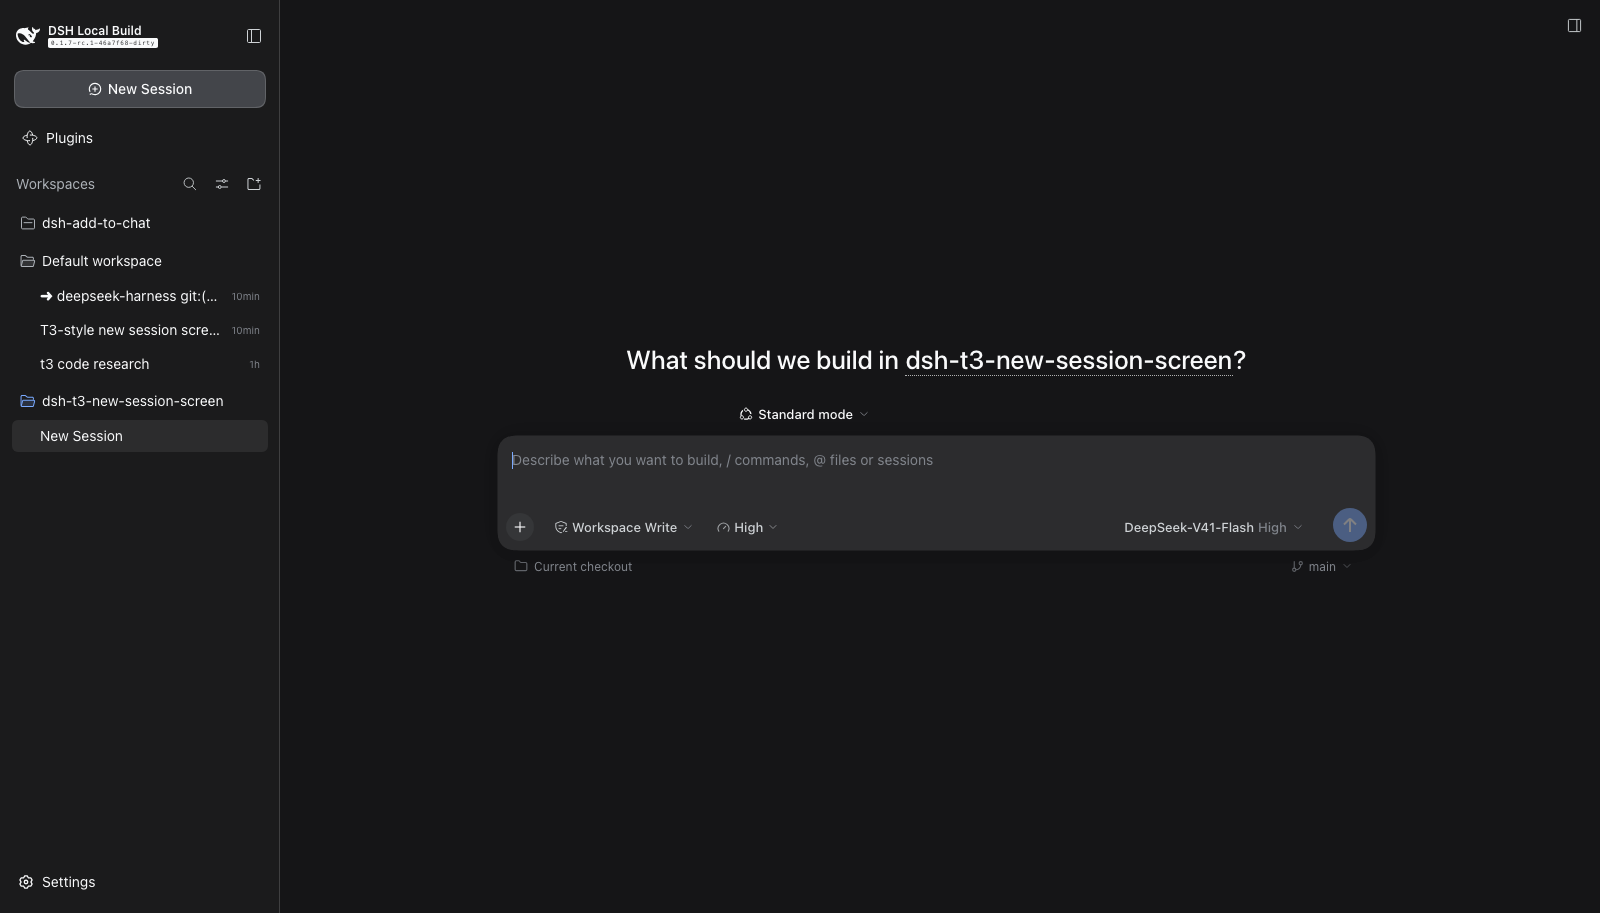
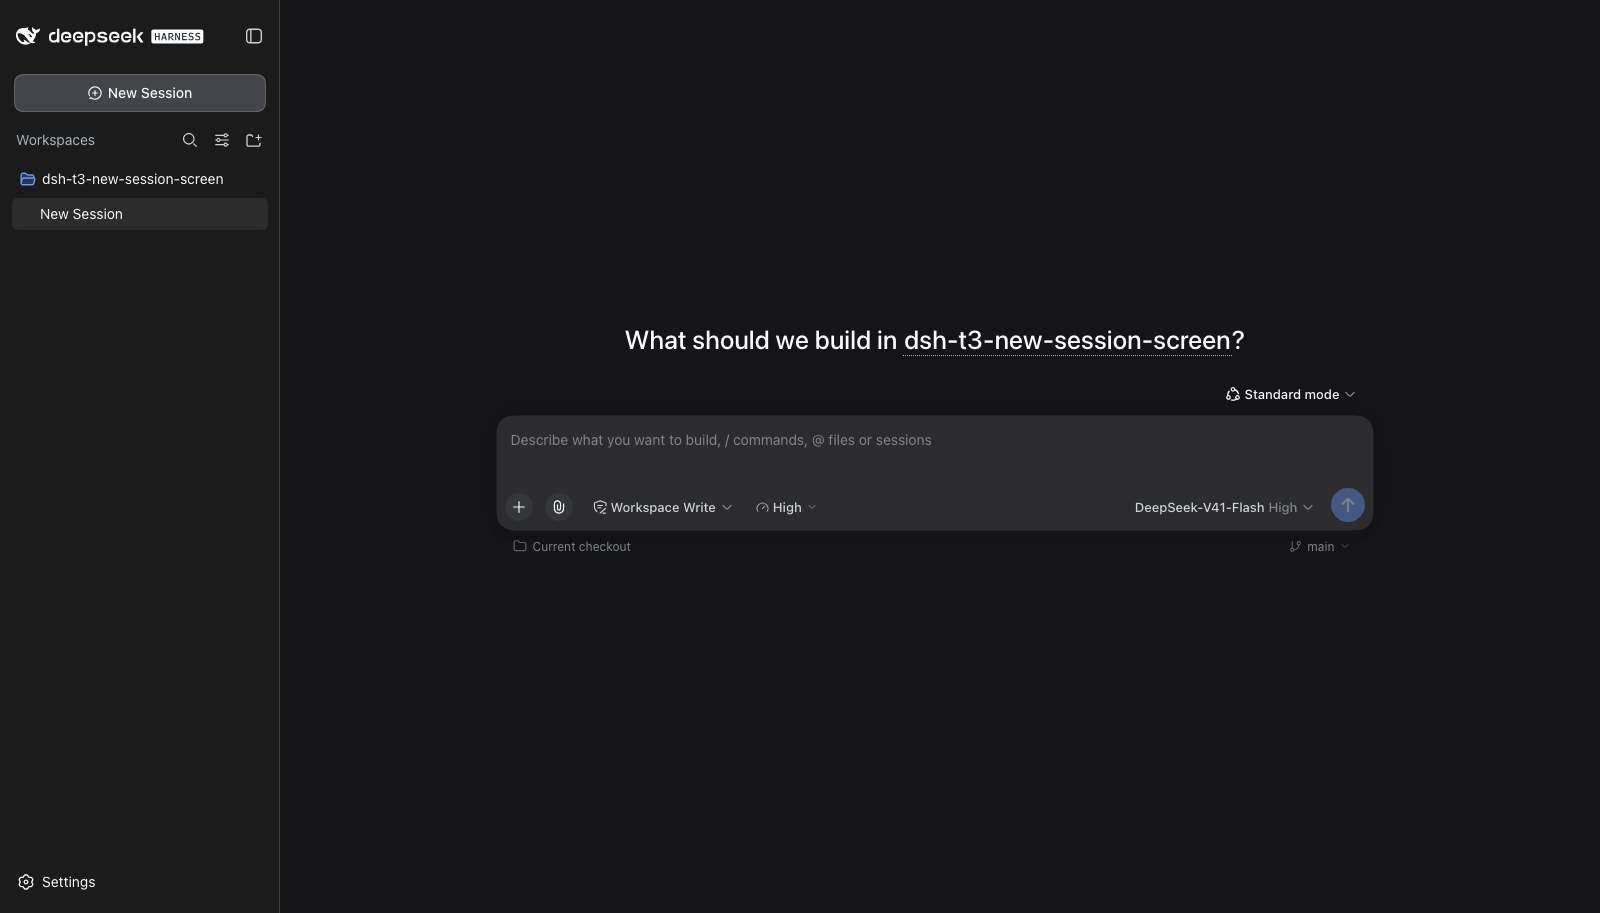
fix(alignment): seat the hero preset chip on the composer axis
The shipped workspace chip was hidden with `visibility`, which keeps a box.
Its 226px stayed in the hero workspace row for this repository's own name,
so the agent-preset seat that shares the row — "Standard mode" — sat
wherever that invisible box ended: mid-row, at an x that followed the
project name's length, on no axis at all.

The chip now leaves the layout (`display: none`), and the row is
re-declared as trailing: the preset seat is the row's only control, so it
takes an auto left margin plus the axis's own 8px dock inset and lands on
the shared right edge — the tool row's content box, the branch strip's
border box and the send button's right edge. The seat's label then ends
where the strip's ref control ends.

Both halves of the old mistake are guarded: measure-alignment.mjs check 6
fails if the seat stops ending on the axis, check 7 fails if the chip
starts occupying space again. Both were confirmed to fail against the old
behaviour. README's Alignment section carries the new row and the numbers,
and the four stills are re-captured.

diff --git a/client.js b/client.js
@@ -49,6 +49,15 @@ window.__ModuleLoader__.load({
     /** The two composer seats the effort control can occupy. */
     const EFFORT_SEATS = ['conversation.input.left', 'conversation.input.right']
 
+    /**
+     * Marks the hero workspace row as trailing while the headline carries the
+     * project affordance: DSH ships that row as a leading pair (its workspace
+     * chip + the agent-preset seat), and with the chip out of the layout the
+     * seat is the only control left in it. Set on `<html>` so the rule that
+     * trailers the seat can live in this plugin's own stylesheet.
+     */
+    const TRAILING_ROW_ATTR = 'data-t3nss-preset-trailing'
+
     const EN = {
       'headline.fallback': 'What should we build in {project}?',
       'headline.thisProject': 'this project',
@@ -484,19 +493,25 @@ window.__ModuleLoader__.load({
       }, [selectedId, selectedTitle])
 
       // The headline IS the project control, which leaves the shipped chip as a
-      // second affordance for the same choice. It stays laid out (hidden rather
-      // than removed) so it remains a stable anchor and a working fallback.
+      // second affordance for the same choice. Hiding it with `visibility` kept
+      // its box in the row — 226px for this repository's own name — so the
+      // agent-preset seat that shares the row floated at an x that followed the
+      // project's name instead of any axis on the screen. It leaves the layout
+      // entirely instead, and the row is re-declared as trailing: the preset
+      // seat, now the row's only control, rides the composer's shared right axis
+      // (see the `data-t3nss-preset-trailing` rule in the stylesheet). The chip
+      // stays in the DOM, unrendered, as the menu's fallback anchor.
       const hideChip = config.headlineEnabled && config.hideWorkspaceChip
       useLayoutEffect(() => {
         const chip = anchorRef?.current ?? null
         workspaceChip = chip
         if (chip === null || !hideChip) return undefined
-        const previous = { visibility: chip.style.visibility, pointerEvents: chip.style.pointerEvents }
-        chip.style.visibility = 'hidden'
-        chip.style.pointerEvents = 'none'
+        const previousDisplay = chip.style.display
+        chip.style.display = 'none'
+        document.documentElement.setAttribute(TRAILING_ROW_ATTR, '')
         return () => {
-          chip.style.visibility = previous.visibility
-          chip.style.pointerEvents = previous.pointerEvents
+          chip.style.display = previousDisplay
+          document.documentElement.removeAttribute(TRAILING_ROW_ATTR)
         }
       }, [anchorRef, hideChip])
 
@@ -948,6 +963,29 @@ window.__ModuleLoader__.load({
 .t3nss-chipGlyph { flex: 0 0 auto; opacity: 0.7; }
 .t3nss-chipLabel { min-width: 0; overflow: hidden; text-overflow: ellipsis; white-space: nowrap; }
 .t3nss-chipChevron { flex: 0 0 auto; opacity: 0.55; }
+
+/* The hero workspace row, re-declared as trailing while the headline carries the
+   project name. DSH ships that row as a LEADING pair — its workspace chip, then
+   the agent-preset seat, gap 2, padding 0 16px 0 20px — and hides the row's own
+   axis behind the card's side clearance. With the workspace chip removed from the
+   layout (the plugin's headline is the project control), the preset seat is the
+   row's only control, and leaving it in the leading slot parks it at an x that
+   follows the invisible chip's width: 226px for this repository's name, 84px for
+   a short one, nothing at all for the placeholder state.
+
+   Trailing it instead puts its border box on the composer's shared right axis —
+   the right edge the tool row's content box and the branch strip's border box
+   both end on, flush with the send button and with the strip's own ref control.
+   The trailing 8px is that axis's own dock inset, subtracted so the seat's LABEL
+   ends where the strip's right control ends rather than 8px past it. An auto
+   left margin, not justify-content on the row, keeps the slip correct at any row
+   width: the row is the shipped box, and an auto margin is what a flex item can
+   own from this side of the boundary. Both values ride the published variables,
+   so a profile that retunes the composer axis retunes this with it. */
+html[data-t3nss-preset-trailing] [data-slot='conversation.hero.agentPreset'] > * {
+  margin-left: auto;
+  margin-right: var(--dsh-composer-dock-inset, 8px);
+}
 
 /* The strip aligns on the composer's shared width axis: the card's CONTENT box,
    not the card itself. DSH publishes the three numbers that define that axis —

diff --git a/README.md b/README.md
@@ -32,6 +32,10 @@ Harness's own services. Please support the original project.
   this plugin fills the only additive hole in that row
   (`conversation.hero.brand.mark`) and suppresses the shipped title beside it.
   The template is configurable, and `{project}` marks where the control goes.
+  DSH's own workspace chip shares the row below the headline with the agent-preset
+  seat; with the headline carrying the project, that chip leaves the layout too,
+  and the preset seat it used to lead re-seats on the composer's right edge — see
+  [Alignment](#alignment).
 - **Reasoning effort.** A gauge control in the composer tool row showing the
   level the current model is actually using (`Off`, `Low`, `High`, `Max` for
   DeepSeek's own models). The menu carries each level's description and a check
@@ -114,6 +118,7 @@ The whole screen is contributed through DSH's own seams.
 | New project | `ctx.uiWorkspace.pickDirectory()` then `ctx.workspaces.create({ path })`. |
 | Reasoning effort | `conversation.input.left` / `.right` (list), reading `ctx.modelDirectories.directoryFor(sessionId)`. |
 | Branch strip | `conversation.input.dock` (one seat for both phases). |
+| Hero workspace row | No seat of its own. The shipped row is re-declared: its workspace chip leaves the layout and its agent-preset seat is trailed onto the composer axis, keyed off a `data-t3nss-preset-trailing` attribute the plugin sets on `<html>`. |
 | Working directory | `ctx.sessions.list.getSnapshot().byId[sessionId]?.cwd`. |
 | Git | The Host half's fenced `POST /t3-new-session/api` route (`config`, `git.status`, `git.branches`, `git.checkout`, `git.createBranch`), running `git` through `node:child_process`. |
 
@@ -147,11 +152,19 @@ profile it lands on the card's **content** box:
 | Composer tool row, content box | **506..1367** | 861px |
 | Headline stack (`HeroShell`) | **506..1367** | 861px |
 | **Branch strip** | **506..1367** | 861px |
+| **Hero preset seat** (right-aligned) | 1218..**1367** | 149px |
 
 All three share centre **936**, and the strip's text sits **4px** under the card —
 which is exactly what T3's `-mt-4` + `pt-5` pair nets out to. Inside the tool row
 the reasoning-effort control is 28px tall and vertically centred with the attach
 button and the permission control (all `513..541`).
+
+The preset seat is the row's only *label-sized* element, so only its right edge is
+a fixed number: the seat is content-sized (149px for `Standard mode`), and its
+left edge follows whatever DSH names the preset. Its right edge lands on the same
+1367 as the strip, the headline stack and the tool row's content box, which is
+also the send button's and the strip's trailing control's right edge — the row
+reads as one trailing column above the card rather than a chip mid-row.
 
 Two details are load-bearing and easy to regress:
 
@@ -164,8 +177,26 @@ Two details are load-bearing and easy to regress:
   `max-width` does the clamping while `margin-inline: auto` re-centres it — the
   same 861px at the same 506px start, from a different parent.
 
+The hero workspace row is the one place the plugin adjusts DSH's own box rather
+than filling a seat. Removing the shipped workspace chip from the row is what
+frees the preset seat, and it is the *layout* removal that matters:
+`visibility: hidden` — the obvious way to hide an element whose behaviour is
+still wanted — leaves its 226px box behind for this repository's own name, and
+the seat beside it then sits at whatever x that box ends on. Two things follow,
+and both are what the check below measures:
+
+- the chip is `display: none`d, not hidden, so nothing it used to size survives
+  in the row;
+- the seat is trailed with an auto left margin plus an 8px right margin, not with
+  `justify-content` on the row: the row belongs to DSH, the margins belong to the
+  seat, and an auto margin keeps the slip right at any row width — the row's own
+  right padding (16px) is one side clearance, so the 8px margin is what lands the
+  seat on the axis rather than on the card's outer edge.
+
 `scripts/measure-alignment.mjs` re-checks every number above against a running
-page and exits non-zero on a regression.
+page and exits non-zero on a regression — including checks 6 and 7, which fail on
+either half of that mistake: a seat that stops ending on 1367, and a chip that
+starts occupying space again.
 
 ## Differences from T3
 
